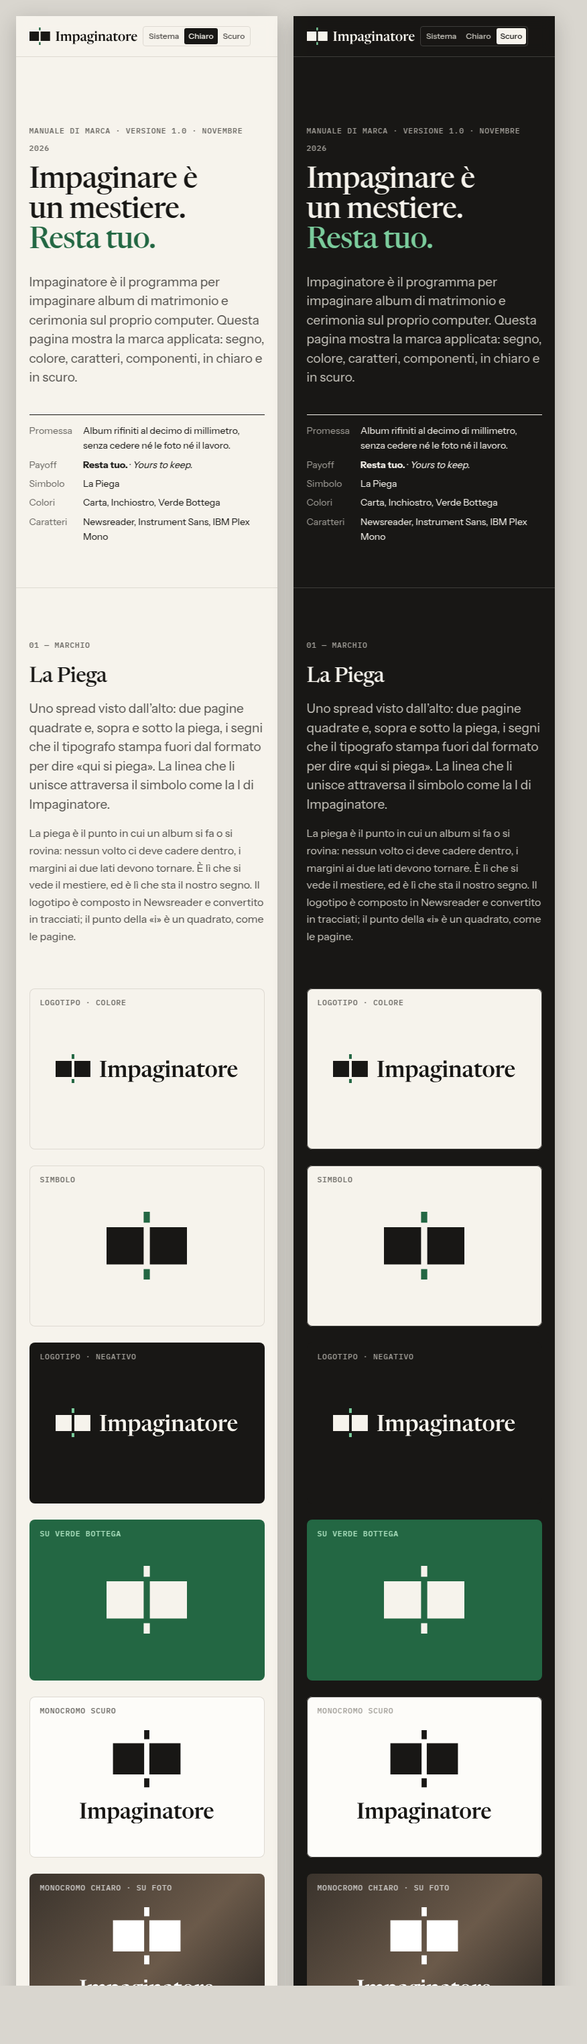
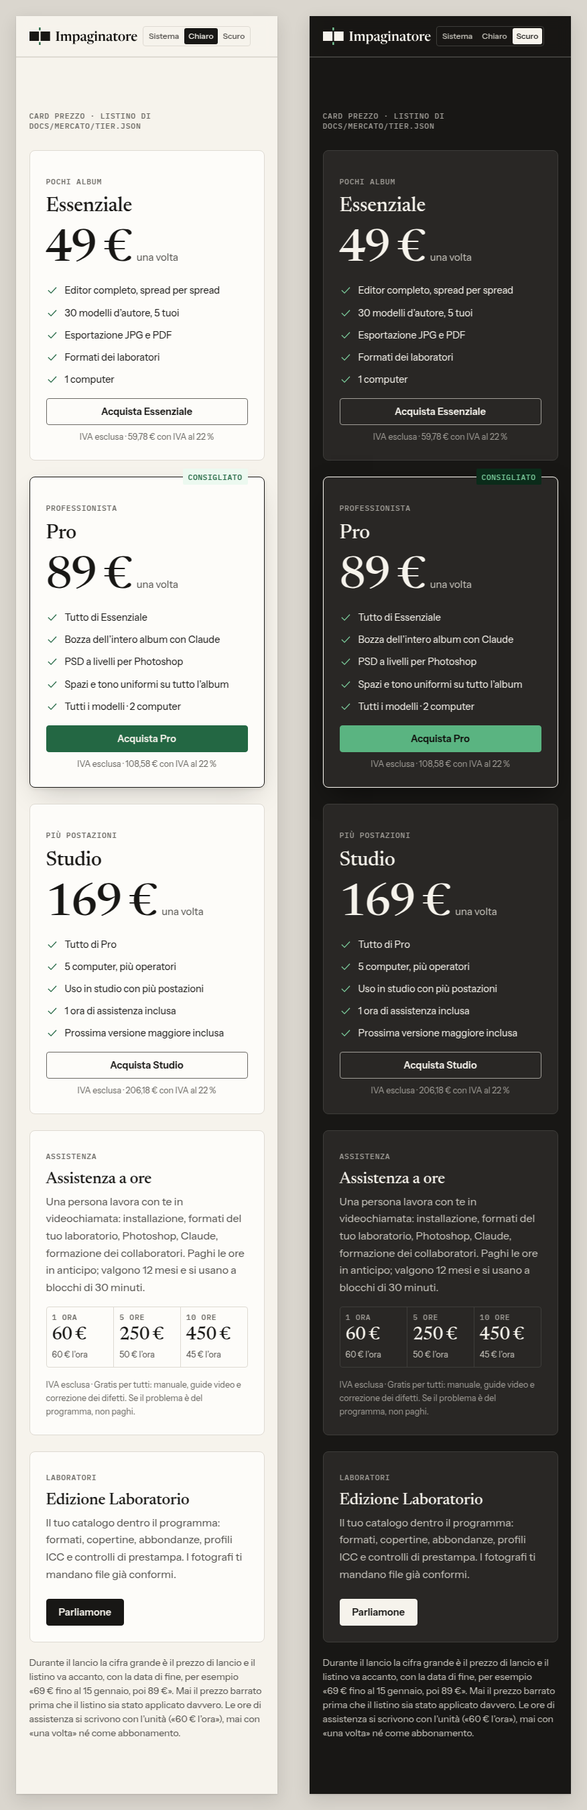
mercato(prezzi): studio dei prezzi sul listino ribassato e materiali di marca allineati

diff --git a/brand/anteprima.html b/brand/anteprima.html
@@ -484,6 +484,15 @@ hr { border: 0; border-top: 1px solid var(--imp-filetto); margin: 0; }
 .fascia-lab h3 { font-size: 24px; margin: 8px 0 6px; }
 .fascia-lab p { margin: 0; max-width: 62ch; }
 .fascia-lab .pulsante { flex: none; }
+.fascia-ore { margin-top: var(--imp-griglia-canale); display: grid; grid-template-columns: minmax(0, 1fr) auto; gap: var(--imp-spazio-5) var(--imp-spazio-6); align-items: center; padding: var(--imp-spazio-6); border: 1px solid var(--imp-filetto); border-radius: var(--imp-raggio-grande); background: var(--imp-superficie); }
+.fascia-ore h3 { font-size: 24px; margin: 8px 0 6px; }
+.fascia-ore p { margin: 0; max-width: 62ch; }
+.fascia-ore .nota { grid-column: 1 / -1; font-size: 12.5px; color: var(--imp-testo-tenue); }
+.pacchetti { display: grid; grid-template-columns: repeat(3, minmax(0, 1fr)); border: 1px solid var(--imp-filetto); border-radius: var(--imp-raggio-medio); }
+.pacchetto { display: grid; gap: 6px; padding: var(--imp-spazio-4) var(--imp-spazio-5); min-width: 0; }
+.pacchetto + .pacchetto { border-left: 1px solid var(--imp-filetto); }
+.pacchetto strong { font: 480 34px/1 var(--imp-font-titoli); font-variation-settings: "opsz" 48; letter-spacing: -.02em; font-variant-numeric: lining-nums; white-space: nowrap; }
+.pacchetto .per-ora { font-size: 12.5px; color: var(--imp-testo-secondario); white-space: nowrap; }
 
 /* ------------------------------------------------------------------ foto segnaposto */
 .foto { background: #8a7a6a; position: relative; overflow: hidden; }
@@ -586,6 +595,7 @@ hr { border: 0; border-top: 1px solid var(--imp-filetto); margin: 0; }
   .sito .eroe { grid-template-columns: 1fr; }
   .prezzi, .concept { grid-template-columns: 1fr; }
   .fascia-lab { flex-direction: column; align-items: flex-start; }
+  .fascia-ore { grid-template-columns: minmax(0, 1fr); }
   .scorretti { grid-template-columns: repeat(2, 1fr); }
 }
 @media (max-width: 760px) {
@@ -612,6 +622,8 @@ hr { border: 0; border-top: 1px solid var(--imp-filetto); margin: 0; }
   .contrasti { grid-template-columns: 1fr; }
   .campioni { grid-template-columns: repeat(3, 1fr); }
   .contrasti-avvolgi { overflow-x: auto; }
+  .pacchetto { padding: var(--imp-spazio-3) var(--imp-spazio-3); }
+  .pacchetto strong { font-size: 26px; }
 }
 @media (max-width: 400px) {
   .testata .pagina { gap: var(--imp-spazio-3); }
@@ -780,7 +792,7 @@ hr { border: 0; border-top: 1px solid var(--imp-filetto); margin: 0; }
     </div>
     <div class="famiglia">
       <div class="nome"><span class="etichetta">Numeri e misure</span><b>IBM Plex Mono</b><span class="piccolo tenue">IBM · OFL 1.1 · Regular 400, Medium 500</span></div>
-      <div class="esempio"><div class="misura" style="font-size:28px;letter-spacing:-.01em">30 × 30 cm · 3,0 mm · 0,1 mm · 349 €</div><div class="etichetta" style="margin-top:10px">Etichette tecniche · maiuscolo · spaziatura +6 %</div></div>
+      <div class="esempio"><div class="misura" style="font-size:28px;letter-spacing:-.01em">30 × 30 cm · 3,0 mm · 0,1 mm · 89 €</div><div class="etichetta" style="margin-top:10px">Etichette tecniche · maiuscolo · spaziatura +6 %</div></div>
     </div>
     <div class="blocco">
       <span class="etichetta">Scala tipografica</span>
@@ -913,7 +925,7 @@ hr { border: 0; border-top: 1px solid var(--imp-filetto); margin: 0; }
         <span class="etichetta">Badge</span>
         <div class="fila" style="margin-top:16px">
           <span class="badge verde">Licenza perpetua</span><span class="badge">macOS · Windows</span><span class="badge">Novità</span>
-          <span class="badge prezzo"><b class="num">349 €</b><span>una volta</span></span>
+          <span class="badge prezzo"><b class="num">89 €</b><span>una volta</span></span>
         </div>
         <p class="piccolo secondario" style="margin-top:20px">Il badge prezzo dice sempre due cose: la cifra, in carattere dei numeri, e il fatto che si paga una volta. Le cifre di questa pagina sono quelle del listino (<span class="num">docs/mercato/tier.json</span>), IVA esclusa.</p>
       </div>
@@ -965,26 +977,39 @@ hr { border: 0; border-top: 1px solid var(--imp-filetto); margin: 0; }
       <div class="prezzi" style="margin-top:28px">
         <div class="card-prezzo">
           <div><span class="etichetta">Pochi album</span><h3 style="margin-top:8px">Essenziale</h3></div>
-          <div class="cifra"><strong>199 €</strong><span>una volta</span></div>
+          <div class="cifra"><strong>49 €</strong><span>una volta</span></div>
           <ul><li><svg><use href="#i-ok"/></svg>Editor completo, spread per spread</li><li><svg><use href="#i-ok"/></svg>30 modelli d’autore, 5 tuoi</li><li><svg><use href="#i-ok"/></svg>Esportazione JPG e PDF</li><li><svg><use href="#i-ok"/></svg>Formati dei laboratori</li><li><svg><use href="#i-ok"/></svg>1 computer</li></ul>
           <a class="pulsante" href="#">Acquista Essenziale</a>
-          <p class="nota">IVA esclusa · 242,78 € con IVA al 22 %</p>
+          <p class="nota">IVA esclusa · 59,78 € con IVA al 22 %</p>
         </div>
         <div class="card-prezzo consigliata">
           <span class="nastro badge verde">Consigliato</span>
           <div><span class="etichetta">Professionista</span><h3 style="margin-top:8px">Pro</h3></div>
-          <div class="cifra"><strong>349 €</strong><span>una volta</span></div>
+          <div class="cifra"><strong>89 €</strong><span>una volta</span></div>
           <ul><li><svg><use href="#i-ok"/></svg>Tutto di Essenziale</li><li><svg><use href="#i-ok"/></svg>Bozza dell’intero album con Claude</li><li><svg><use href="#i-ok"/></svg>PSD a livelli per Photoshop</li><li><svg><use href="#i-ok"/></svg>Spazi e tono uniformi su tutto l’album</li><li><svg><use href="#i-ok"/></svg>Tutti i modelli · 2 computer</li></ul>
           <a class="pulsante primario" href="#">Acquista Pro</a>
-          <p class="nota">IVA esclusa · 425,78 € con IVA al 22 %</p>
+          <p class="nota">IVA esclusa · 108,58 € con IVA al 22 %</p>
         </div>
         <div class="card-prezzo">
           <div><span class="etichetta">Più postazioni</span><h3 style="margin-top:8px">Studio</h3></div>
-          <div class="cifra"><strong>699 €</strong><span>una volta</span></div>
-          <ul><li><svg><use href="#i-ok"/></svg>Tutto di Pro</li><li><svg><use href="#i-ok"/></svg>5 computer, più operatori</li><li><svg><use href="#i-ok"/></svg>Risposta entro 1 giorno lavorativo</li><li><svg><use href="#i-ok"/></svg>30 minuti di avvio guidato</li><li><svg><use href="#i-ok"/></svg>Prossima versione maggiore inclusa</li></ul>
+          <div class="cifra"><strong>169 €</strong><span>una volta</span></div>
+          <ul><li><svg><use href="#i-ok"/></svg>Tutto di Pro</li><li><svg><use href="#i-ok"/></svg>5 computer, più operatori</li><li><svg><use href="#i-ok"/></svg>Uso in studio con più postazioni</li><li><svg><use href="#i-ok"/></svg>1 ora di assistenza inclusa</li><li><svg><use href="#i-ok"/></svg>Prossima versione maggiore inclusa</li></ul>
           <a class="pulsante" href="#">Acquista Studio</a>
-          <p class="nota">IVA esclusa · 852,78 € con IVA al 22 %</p>
+          <p class="nota">IVA esclusa · 206,18 € con IVA al 22 %</p>
         </div>
+      </div>
+      <div class="fascia-ore">
+        <div>
+          <span class="etichetta">Assistenza</span>
+          <h3>Assistenza a ore</h3>
+          <p class="secondario">Una persona lavora con te in videochiamata: installazione, formati del tuo laboratorio, Photoshop, Claude, formazione dei collaboratori. Paghi le ore in anticipo; valgono 12 mesi e si usano a blocchi di 30 minuti.</p>
+        </div>
+        <div class="pacchetti">
+          <div class="pacchetto"><span class="etichetta">1 ora</span><strong>60 €</strong><span class="per-ora">60 € l’ora</span></div>
+          <div class="pacchetto"><span class="etichetta">5 ore</span><strong>250 €</strong><span class="per-ora">50 € l’ora</span></div>
+          <div class="pacchetto"><span class="etichetta">10 ore</span><strong>450 €</strong><span class="per-ora">45 € l’ora</span></div>
+        </div>
+        <p class="nota">IVA esclusa · Gratis per tutti: manuale, guide video e correzione dei difetti. Se il problema è del programma, non paghi.</p>
       </div>
       <div class="fascia-lab">
         <div>
@@ -994,7 +1019,7 @@ hr { border: 0; border-top: 1px solid var(--imp-filetto); margin: 0; }
         </div>
         <a class="pulsante pieno" href="#">Parliamone</a>
       </div>
-      <p class="piccolo secondario" style="margin-top:20px">Durante il lancio la cifra grande è il prezzo di lancio e il listino va accanto, con la data di fine, per esempio «249 € fino al 15 gennaio, poi 349 €». Mai il prezzo barrato prima che il listino sia stato applicato davvero.</p>
+      <p class="piccolo secondario" style="margin-top:20px">Durante il lancio la cifra grande è il prezzo di lancio e il listino va accanto, con la data di fine, per esempio «69&nbsp;€ fino al 15 gennaio, poi 89&nbsp;€». Mai il prezzo barrato prima che il listino sia stato applicato davvero. Le ore di assistenza si scrivono con l’unità («60&nbsp;€ l’ora»), mai con «una volta» né come abbonamento.</p>
     </div>
 
     <div class="blocco">

diff --git a/brand/strumenti/anteprima.modello.html b/brand/strumenti/anteprima.modello.html
@@ -257,6 +257,15 @@ hr { border: 0; border-top: 1px solid var(--imp-filetto); margin: 0; }
 .fascia-lab h3 { font-size: 24px; margin: 8px 0 6px; }
 .fascia-lab p { margin: 0; max-width: 62ch; }
 .fascia-lab .pulsante { flex: none; }
+.fascia-ore { margin-top: var(--imp-griglia-canale); display: grid; grid-template-columns: minmax(0, 1fr) auto; gap: var(--imp-spazio-5) var(--imp-spazio-6); align-items: center; padding: var(--imp-spazio-6); border: 1px solid var(--imp-filetto); border-radius: var(--imp-raggio-grande); background: var(--imp-superficie); }
+.fascia-ore h3 { font-size: 24px; margin: 8px 0 6px; }
+.fascia-ore p { margin: 0; max-width: 62ch; }
+.fascia-ore .nota { grid-column: 1 / -1; font-size: 12.5px; color: var(--imp-testo-tenue); }
+.pacchetti { display: grid; grid-template-columns: repeat(3, minmax(0, 1fr)); border: 1px solid var(--imp-filetto); border-radius: var(--imp-raggio-medio); }
+.pacchetto { display: grid; gap: 6px; padding: var(--imp-spazio-4) var(--imp-spazio-5); min-width: 0; }
+.pacchetto + .pacchetto { border-left: 1px solid var(--imp-filetto); }
+.pacchetto strong { font: 480 34px/1 var(--imp-font-titoli); font-variation-settings: "opsz" 48; letter-spacing: -.02em; font-variant-numeric: lining-nums; white-space: nowrap; }
+.pacchetto .per-ora { font-size: 12.5px; color: var(--imp-testo-secondario); white-space: nowrap; }
 
 /* ------------------------------------------------------------------ foto segnaposto */
 .foto { background: #8a7a6a; position: relative; overflow: hidden; }
@@ -359,6 +368,7 @@ hr { border: 0; border-top: 1px solid var(--imp-filetto); margin: 0; }
   .sito .eroe { grid-template-columns: 1fr; }
   .prezzi, .concept { grid-template-columns: 1fr; }
   .fascia-lab { flex-direction: column; align-items: flex-start; }
+  .fascia-ore { grid-template-columns: minmax(0, 1fr); }
   .scorretti { grid-template-columns: repeat(2, 1fr); }
 }
 @media (max-width: 760px) {
@@ -385,6 +395,8 @@ hr { border: 0; border-top: 1px solid var(--imp-filetto); margin: 0; }
   .contrasti { grid-template-columns: 1fr; }
   .campioni { grid-template-columns: repeat(3, 1fr); }
   .contrasti-avvolgi { overflow-x: auto; }
+  .pacchetto { padding: var(--imp-spazio-3) var(--imp-spazio-3); }
+  .pacchetto strong { font-size: 26px; }
 }
 @media (max-width: 400px) {
   .testata .pagina { gap: var(--imp-spazio-3); }
@@ -553,7 +565,7 @@ hr { border: 0; border-top: 1px solid var(--imp-filetto); margin: 0; }
     </div>
     <div class="famiglia">
       <div class="nome"><span class="etichetta">Numeri e misure</span><b>IBM Plex Mono</b><span class="piccolo tenue">IBM · OFL 1.1 · Regular 400, Medium 500</span></div>
-      <div class="esempio"><div class="misura" style="font-size:28px;letter-spacing:-.01em">30 × 30 cm · 3,0 mm · 0,1 mm · 349 €</div><div class="etichetta" style="margin-top:10px">Etichette tecniche · maiuscolo · spaziatura +6 %</div></div>
+      <div class="esempio"><div class="misura" style="font-size:28px;letter-spacing:-.01em">30 × 30 cm · 3,0 mm · 0,1 mm · 89 €</div><div class="etichetta" style="margin-top:10px">Etichette tecniche · maiuscolo · spaziatura +6 %</div></div>
     </div>
     <div class="blocco">
       <span class="etichetta">Scala tipografica</span>
@@ -686,7 +698,7 @@ hr { border: 0; border-top: 1px solid var(--imp-filetto); margin: 0; }
         <span class="etichetta">Badge</span>
         <div class="fila" style="margin-top:16px">
           <span class="badge verde">Licenza perpetua</span><span class="badge">macOS · Windows</span><span class="badge">Novità</span>
-          <span class="badge prezzo"><b class="num">349 €</b><span>una volta</span></span>
+          <span class="badge prezzo"><b class="num">89 €</b><span>una volta</span></span>
         </div>
         <p class="piccolo secondario" style="margin-top:20px">Il badge prezzo dice sempre due cose: la cifra, in carattere dei numeri, e il fatto che si paga una volta. Le cifre di questa pagina sono quelle del listino (<span class="num">docs/mercato/tier.json</span>), IVA esclusa.</p>
       </div>
@@ -738,26 +750,39 @@ hr { border: 0; border-top: 1px solid var(--imp-filetto); margin: 0; }
       <div class="prezzi" style="margin-top:28px">
         <div class="card-prezzo">
           <div><span class="etichetta">Pochi album</span><h3 style="margin-top:8px">Essenziale</h3></div>
-          <div class="cifra"><strong>199 €</strong><span>una volta</span></div>
+          <div class="cifra"><strong>49 €</strong><span>una volta</span></div>
           <ul><li><svg><use href="#i-ok"/></svg>Editor completo, spread per spread</li><li><svg><use href="#i-ok"/></svg>30 modelli d'autore, 5 tuoi</li><li><svg><use href="#i-ok"/></svg>Esportazione JPG e PDF</li><li><svg><use href="#i-ok"/></svg>Formati dei laboratori</li><li><svg><use href="#i-ok"/></svg>1 computer</li></ul>
           <a class="pulsante" href="#">Acquista Essenziale</a>
-          <p class="nota">IVA esclusa · 242,78 € con IVA al 22 %</p>
+          <p class="nota">IVA esclusa · 59,78 € con IVA al 22 %</p>
         </div>
         <div class="card-prezzo consigliata">
           <span class="nastro badge verde">Consigliato</span>
           <div><span class="etichetta">Professionista</span><h3 style="margin-top:8px">Pro</h3></div>
-          <div class="cifra"><strong>349 €</strong><span>una volta</span></div>
+          <div class="cifra"><strong>89 €</strong><span>una volta</span></div>
           <ul><li><svg><use href="#i-ok"/></svg>Tutto di Essenziale</li><li><svg><use href="#i-ok"/></svg>Bozza dell'intero album con Claude</li><li><svg><use href="#i-ok"/></svg>PSD a livelli per Photoshop</li><li><svg><use href="#i-ok"/></svg>Spazi e tono uniformi su tutto l'album</li><li><svg><use href="#i-ok"/></svg>Tutti i modelli · 2 computer</li></ul>
           <a class="pulsante primario" href="#">Acquista Pro</a>
-          <p class="nota">IVA esclusa · 425,78 € con IVA al 22 %</p>
+          <p class="nota">IVA esclusa · 108,58 € con IVA al 22 %</p>
         </div>
         <div class="card-prezzo">
           <div><span class="etichetta">Più postazioni</span><h3 style="margin-top:8px">Studio</h3></div>
-          <div class="cifra"><strong>699 €</strong><span>una volta</span></div>
-          <ul><li><svg><use href="#i-ok"/></svg>Tutto di Pro</li><li><svg><use href="#i-ok"/></svg>5 computer, più operatori</li><li><svg><use href="#i-ok"/></svg>Risposta entro 1 giorno lavorativo</li><li><svg><use href="#i-ok"/></svg>30 minuti di avvio guidato</li><li><svg><use href="#i-ok"/></svg>Prossima versione maggiore inclusa</li></ul>
+          <div class="cifra"><strong>169 €</strong><span>una volta</span></div>
+          <ul><li><svg><use href="#i-ok"/></svg>Tutto di Pro</li><li><svg><use href="#i-ok"/></svg>5 computer, più operatori</li><li><svg><use href="#i-ok"/></svg>Uso in studio con più postazioni</li><li><svg><use href="#i-ok"/></svg>1 ora di assistenza inclusa</li><li><svg><use href="#i-ok"/></svg>Prossima versione maggiore inclusa</li></ul>
           <a class="pulsante" href="#">Acquista Studio</a>
-          <p class="nota">IVA esclusa · 852,78 € con IVA al 22 %</p>
+          <p class="nota">IVA esclusa · 206,18 € con IVA al 22 %</p>
         </div>
+      </div>
+      <div class="fascia-ore">
+        <div>
+          <span class="etichetta">Assistenza</span>
+          <h3>Assistenza a ore</h3>
+          <p class="secondario">Una persona lavora con te in videochiamata: installazione, formati del tuo laboratorio, Photoshop, Claude, formazione dei collaboratori. Paghi le ore in anticipo; valgono 12 mesi e si usano a blocchi di 30 minuti.</p>
+        </div>
+        <div class="pacchetti">
+          <div class="pacchetto"><span class="etichetta">1 ora</span><strong>60 €</strong><span class="per-ora">60 € l'ora</span></div>
+          <div class="pacchetto"><span class="etichetta">5 ore</span><strong>250 €</strong><span class="per-ora">50 € l'ora</span></div>
+          <div class="pacchetto"><span class="etichetta">10 ore</span><strong>450 €</strong><span class="per-ora">45 € l'ora</span></div>
+        </div>
+        <p class="nota">IVA esclusa · Gratis per tutti: manuale, guide video e correzione dei difetti. Se il problema è del programma, non paghi.</p>
       </div>
       <div class="fascia-lab">
         <div>
@@ -767,7 +792,7 @@ hr { border: 0; border-top: 1px solid var(--imp-filetto); margin: 0; }
         </div>
         <a class="pulsante pieno" href="#">Parliamone</a>
       </div>
-      <p class="piccolo secondario" style="margin-top:20px">Durante il lancio la cifra grande è il prezzo di lancio e il listino va accanto, con la data di fine, per esempio «249 € fino al 15 gennaio, poi 349 €». Mai il prezzo barrato prima che il listino sia stato applicato davvero.</p>
+      <p class="piccolo secondario" style="margin-top:20px">Durante il lancio la cifra grande è il prezzo di lancio e il listino va accanto, con la data di fine, per esempio «69&nbsp;€ fino al 15 gennaio, poi 89&nbsp;€». Mai il prezzo barrato prima che il listino sia stato applicato davvero. Le ore di assistenza si scrivono con l'unità («60&nbsp;€ l'ora»), mai con «una volta» né come abbonamento.</p>
     </div>
 
     <div class="blocco">

diff --git a/brand/STYLEBOOK.md b/brand/STYLEBOOK.md
@@ -95,12 +95,13 @@ Composizione: Newsreader, punto finale compreso, in Verde Bottega o Inchiostro. 
 - Nessun punto esclamativo, nessuna emoji, nessun maiuscolo urlato.
 - L’assistente si chiama col suo nome: «Claude prepara la bozza». Non «l’IA crea», non «magia».
 - Si spiega il perché in una riga, poi ci si ferma.
-- Convenzioni italiane: virgola decimale (3,0 mm), punto delle migliaia (1.290 €), prezzo con lo spazio prima di € (349 €), segno di moltiplicazione con spazi (30 × 30 cm), lineetta per gli intervalli (spread 07–08), virgolette basse («»), apostrofo tipografico (’). In inglese: €349, 30 × 30 cm, 3.0 mm.
+- Convenzioni italiane: virgola decimale (3,0 mm), punto delle migliaia (1.290 €), prezzo con lo spazio prima di € (89 €), segno di moltiplicazione con spazi (30 × 30 cm), lineetta per gli intervalli (spread 07–08), virgolette basse («»), apostrofo tipografico (’). In inglese: €89, 30 × 30 cm, 3.0 mm.
 
 | Si dice | Non si dice |
 |---|---|
 | Le foto restano sul tuo computer. | Privacy-first, 100% sicuro, cloud-free! |
 | Paghi una volta. La versione che compri resta tua. | Offerta lifetime imperdibile 🔥 |
+| Se il problema è del programma, non paghi. L’assistenza personale è a ore, pagata in anticipo. | Supporto premium prioritario 24/7 |
 | Claude prepara la bozza; tu decidi ogni spread. | La nostra AI rivoluzionaria crea album magici in un click ✨ |
 | Spazi uguali al decimo di millimetro. | Layout pixel-perfect da sogno. |
 | Nello spread 07–08 un volto cade a 4 mm dalla piega. | Ops! Qualcosa non va nel tuo layout 😅 |
@@ -126,7 +127,7 @@ In inglese: magic · effortless · stunning · unleash · elevate · next-level 
 **Per i fotografi.**
 
 1. **Le foto restano sul tuo computer.** Nessuna funzione le carica in rete; si lavora anche senza connessione. *Prova:* regola del progetto, verificata dall’audit di sicurezza.
-2. **Paghi una volta.** Licenza perpetua: la versione che compri resta tua, anche se smetti di aggiornare. *Prova:* attivazione con chiave verificata in locale.
+2. **Paghi una volta.** Licenza perpetua: la versione che compri resta tua, anche se smetti di aggiornare. *Prova:* attivazione con chiave verificata in locale. L’assistenza personale è a parte, a ore e facoltativa: si dice chiaro accanto al prezzo, non in piccolo.
 3. **Precisione da tipografo.** Spazi e margini uguali al decimo di millimetro, controllati spread per spread; modelli d’autore; PSD a livelli per Photoshop.
 4. **La bozza la prepara Claude, la rifinitura è tua.** L’assistente costruisce l’intero album dentro l’editor; gli spread che hai rifinito a mano non vengono più toccati.
 5. **Fatto da un fotografo.** Nasce dal banco di lavoro di chi impagina album da più di dieci anni e non voleva perdere il proprio strumento.
@@ -445,11 +446,13 @@ Stati: hover (fondo più scuro o bordo `testo`), premuto (spostamento di 1 px in
 
 **Badge.** 24 px, raggio 2 px, IBM Plex Mono 500 11,5 px maiuscolo. Varianti: neutro (filetto), verde (`accento-tenue` + `accento`).
 
-**Badge prezzo.** Due parti unite: la cifra in IBM Plex Mono su `superficie` con bordo `testo`, e «una volta» su `inverso-fondo`. Il prezzo non compare mai senza «una volta» (in inglese «one-time»).
+**Badge prezzo.** Due parti unite: la cifra in IBM Plex Mono su `superficie` con bordo `testo`, e «una volta» su `inverso-fondo`. Il prezzo della licenza non compare mai senza «una volta» (in inglese «one-time»).
 
-**Card prezzo.** Etichetta per chi è (POCHI ALBUM / PROFESSIONISTA / PIÙ POSTAZIONI), nome della fascia in Newsreader 30 px, cifra in Newsreader 64 px con «una volta» accanto, elenco con spunte verdi, pulsante a tutta larghezza in fondo, nota fiscale in 12,5 px. Tre fasce per i fotografi, Essenziale · **Pro** · Studio, con il Pro al centro: bordo `testo`, ombra *sollevato*, badge verde «Consigliato» e l’unico pulsante verde. L’edizione per i laboratori sta in una fascia a parte sotto le card, con «Parliamone» e senza cifra. Cifre, funzioni e nomi vengono da `docs/mercato/tier.json` e `prezzi.md` (T-004): se cambiano lì, si cambiano qui.
+**Card prezzo.** Etichetta per chi è (POCHI ALBUM / PROFESSIONISTA / PIÙ POSTAZIONI), nome della fascia in Newsreader 30 px, cifra in Newsreader 64 px con «una volta» accanto, elenco con spunte verdi, pulsante a tutta larghezza in fondo, nota fiscale in 12,5 px. Tre fasce per i fotografi, Essenziale · **Pro** · Studio, con il Pro al centro: bordo `testo`, ombra *sollevato*, badge verde «Consigliato» e l’unico pulsante verde. Sotto le card, una fascia **Assistenza a ore** con i tre pacchetti (1 ora 60 €, 5 ore 250 €, 10 ore 450 €), il prezzo per ora in testo secondario, la validità (12 mesi, blocchi di 30 minuti) e la nota «Gratis per tutti: manuale, guide video e correzione dei difetti». Pulsante neutro, mai verde. L’edizione per i laboratori sta in una fascia a parte sotto, con «Parliamone» e senza cifra. Cifre, funzioni e nomi vengono da `docs/mercato/tier.json` e `prezzi.md` (T-004): se cambiano lì, si cambiano qui.
 
-**Prezzo di lancio.** La cifra grande è quella che si paga oggi; il prezzo di listino va accanto in testo secondario con la data di fine («249 € fino al 15 gennaio, poi 349 €»). Niente prezzo barrato finché il listino non è stato davvero applicato: per la direttiva Omnibus (art. 17-bis del Codice del consumo) il prezzo «prima» di uno sconto deve essere il più basso dei 30 giorni precedenti. Da far confermare a chi segue l’aspetto legale.
+**Prezzi dell’assistenza.** Si scrivono con l’unità: «60 € l’ora», «5 ore, 250 €». Mai «una volta» (vale solo per la licenza), mai «abbonamento», mai «supporto prioritario»: nessuna fascia lo include. Studio dice «1 ora di assistenza inclusa».
+
+**Prezzo di lancio.** La cifra grande è quella che si paga oggi; il prezzo di listino va accanto in testo secondario con la data di fine («69 € fino al 15 gennaio, poi 89 €»). Niente prezzo barrato finché il listino non è stato davvero applicato: per la direttiva Omnibus (art. 17-bis del Codice del consumo) il prezzo «prima» di uno sconto deve essere il più basso dei 30 giorni precedenti. Da far confermare a chi segue l’aspetto legale.
 
 **Avvisi.** Filetto sinistro di 3 px nel colore dello stato, fondo tinto al 9 %, icona, attacco in grassetto che dice l’esito («Spaziature corrette.», «Da controllare.», «Non esportabile.»).
 
@@ -508,5 +511,5 @@ python3 strumenti/genera_anteprima.py                                     # ante
 - `icona.png` — icona da 1024 a 16 px su chiaro e scuro; 16 e 32 px ingranditi.
 - `concept.png` — i tre concept e la versione scartata, a 200, 64, 32, 16 px.
 - `anteprima-chiaro.png`, `anteprima-scuro.png` — la pagina intera a 1440 px.
-- `anteprima-telefono.png` — la pagina a 390 px, chiaro e scuro; misurata anche a 360 e 375 px: nessuno scorrimento orizzontale.
+- `anteprima-telefono.png` — la sezione prezzi (card, assistenza a ore, laboratori) a 390 px, chiaro e scuro; pagina misurata anche a 360 e 375 px: nessuno scorrimento orizzontale. Con `google-chrome --headless=new` la finestra non scende sotto i 500 px e la vista è 87 px più bassa della finestra: le schermate a 390 px si fanno dentro un `iframe` largo 390 px, e l’altezza della finestra va aumentata di 87 px.
 - Contrasti: 38 coppie, tutte sopra soglia (tabella al §9).

diff --git a/brand/README.md b/brand/README.md
@@ -9,9 +9,9 @@
 7. **Regole del logo:** area di rispetto = mezza pagina del simbolo (≈ 1/4 dell’altezza del logotipo); logotipo mai sotto i 24 px di altezza; non deformare, non ricolorare, non ricomporre il nome a mano.
 8. **Icona e favicon** (`icona/`): `icona-1024.svg` e PNG 16–1024, `icona.ico`, `icona.icns`, `favicon.svg` + `favicon-32.png` (`<link rel="icon" href="favicon.svg" type="image/svg+xml">`).
 9. **Payoff:** «Resta tuo.» — in inglese «Yours to keep.» Sempre col punto, in Newsreader.
-10. **Tono:** del tu, frasi brevi, misure vere («3,0 mm», «30 × 30 cm», «349 €»). Niente punti esclamativi, emoji, «magia», «rivoluzionario», «in un click», «AI-powered». L’assistente si chiama Claude: «Claude prepara la bozza; tu decidi ogni spread».
+10. **Tono:** del tu, frasi brevi, misure vere («3,0 mm», «30 × 30 cm», «89 €»). Niente punti esclamativi, emoji, «magia», «rivoluzionario», «in un click», «AI-powered». L’assistente si chiama Claude: «Claude prepara la bozza; tu decidi ogni spread».
 11. **Messaggi in quest’ordine:** le foto restano sul tuo computer · paghi una volta · precisione al decimo di millimetro e PSD a livelli · bozza con Claude, rifinitura a mano · fatto in Italia da un fotografo.
-12. **Componenti:** copia le classi da `anteprima.html` (`.pulsante.primario`, `.pulsante.pieno`, `.input.num`, `.card`, `.badge.prezzo`, `.card-prezzo`, `.avviso`, `.quota`, `.crocini`). Il prezzo si scrive sempre con «una volta».
+12. **Componenti:** copia le classi da `anteprima.html` (`.pulsante.primario`, `.pulsante.pieno`, `.input.num`, `.card`, `.badge.prezzo`, `.card-prezzo`, `.fascia-ore`, `.avviso`, `.quota`, `.crocini`). Il prezzo della licenza si scrive sempre con «una volta»; l’assistenza con l’unità («60 € l’ora», pagata in anticipo), mai come «supporto prioritario».
 13. **Foto:** reali e con licenza, luce naturale, album fotografati come oggetti; schermate dell’app dritte, senza prospettiva né cornici di dispositivi. Prezzi, fasce e funzioni vengono da `docs/mercato/tier.json`: niente cifre inventate; niente prezzo barrato senza un listino già applicato (STYLEBOOK §16).
 14. **Rigenerare** (dalla cartella `brand/`): `python3 strumenti/genera_token.py` · `uv run --with fonttools --with uharfbuzz python strumenti/genera_logo.py` · `uv run --with pillow --with cairosvg python strumenti/genera_icona.py` · `python3 strumenti/genera_anteprima.py`. Non modificare a mano `tokens.*`, `logo/`, `icona/`, `anteprima.html`: cambia gli script o `strumenti/anteprima.modello.html`.
 15. **Verifiche** in `anteprime/` (logo a 16–64 px, icona, concept, pagina in chiaro, scuro e a 390 px).

diff --git a/CHANGELOG.md b/CHANGELOG.md
@@ -47,3 +47,4 @@ Numerazione: `maggiore.minore.correzione`. La 2.0.0 sarà la prima versione in v
 - `DOC-012` **documenti** — Bozze legali da far rivedere a un avvocato: licenza d'uso in italiano e inglese, informativa sulla riservatezza, termini di vendita (diretta e tramite rivenditore), condizioni dell'assistenza a ore, avvisi delle librerie di terzi, schema per i laboratori, elenco delle questioni aperte. _File:_ `docs/legale/`. _Rif:_ `T-405`, `LEG-001`, `LEG-002`, `LEG-003`, `LEG-004`, `LEG-005`.
 - `DOC-013` **mercato** — Negozio pronto senza conti esterni: guida di apertura, flusso d'acquisto con testi in italiano e inglese, strumento che emette, verifica e revoca le chiavi di licenza firmate Ed25519, formato della chiave per l'app; Polar predisposto come passo facoltativo. _File:_ `marketing/negozio/GUIDA-APERTURA.md`, `marketing/negozio/FLUSSO-ACQUISTO.md`, `marketing/negozio/chiavi/chiavi.py`, `marketing/negozio/chiavi/FORMATO-CHIAVE.md`, `marketing/negozio/polar/`, `marketing/negozio/ALTERNATIVE.md`. _Rif:_ `T-505`.
 - `DOC-014` **mercato** — Piano di lancio a 90 giorni: lista d'attesa, beta con 25 fotografi, tre laboratori pilota, lancio il 23/02/2027, obiettivi e budget. _File:_ `marketing/lancio/PIANO-90-GIORNI.md`. _Rif:_ `T-506`.
+- `DOC-015` **mercato** — Listino ribassato a 49, 89 e 169 € con assistenza a ore prepagate: studio dei prezzi riscritto con evidenze su prezzo e pirateria, analisi di sensibilità e rischi; prezzi a volume per i laboratori ricalcolati; nessun server di attivazione; card prezzo della marca aggiornate. _File:_ `docs/mercato/prezzi.md`, `docs/mercato/tier.json`, `docs/mercato/lead.md`, `docs/mercato/canale-vendita.md`, `brand/STYLEBOOK.md`, `brand/anteprima.html`, `marketing/negozio/GUIDA-APERTURA.md`.
